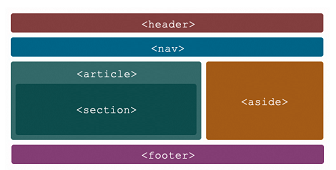
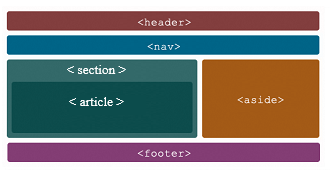
Cambio a CCS!
Cambio a CCS!

Changed region(s): [[0.0, 0.0588, 0.9821, 0.9706], [0.2083, 0.5588, 0.4167, 0.6765], [0.7143, 0.5588, 0.8631, 0.6176]]

diff --git a/ContHTML5.html b/ContHTML5.html
@@ -8,8 +8,8 @@
 	<meta content="NAV, Article, Aside, Header y Footer" name="keywords"/>
 	
 	<title>OVI HTML5</title>
-	<link rel="stylesheet" href="css/normalize.css">
-	<link rel="stylesheet" href="css/estilo.css">
+	<link rel="stylesheet" href="css1/normalize.css">
+	<link rel="stylesheet" href="css1/estilo.css">
 </head>
 
 <body>
@@ -34,12 +34,28 @@
 		<P>
         <CENTER><img src="img/Contenido HTML.png"></CENTER>
         </P>
+
 <P>
+<big>Header</big>
+</P>
+<P>
+Un grupo de navegación o contenido introductorio. Un elemento header normalmente contiene una sección de encabezado (un elemento h1-h6 o un elemento hgroup), pero puede contener otro tipo de elementos, como una tabla de contenidos, un formulario de búsqueda o cualquier logo importante.
+</P>
+&nbsp;
+		<P>
 <big>Nav</big>
 </P>
 <P>
 El elemento "nav" representa una sección de una página que enlaza con otras páginas o partes de la misma página: una sección con enlaces de navegación.
 ha sido diseñado para identificar la navegación de un sitio web. La navegación se define como un conjunto de enlaces que hacen referencia a las secciones de una página o un sitio, pero no todos los enlaces son candidatos de pertenecer a un elemento "nav": una lista de enlaces a patrocinadores o los resultados de una búsqueda, no forman parte de la navegación principal, sino que corresponden con el contenido de la página.
+</P>
+</P>
+&nbsp;
+<p>
+<big>Section</big>
+</P>
+<P>
+Se utiliza para representar una sección "general" dentro de un documento o aplicación, como un capítulo de un libro
 </P>
 </P>
 &nbsp;
@@ -57,13 +73,7 @@ Este elemento representa un contenido completo, auto-contenido en un documento, 
 Una sección de una página que consiste en contenido tangencialmente relacionado con el contenido alrededor del elemento, y puede considerarse separado de este contenido. Estas secciones son normalmente representadas como elementos laterales en medios impresos. Este elemento puede utilizarse contener citas, anuncios, grupos de elementos de navegación y cualquier otro contenido separado del contenido principal de la pagina.
 </P>
 &nbsp;
-<P>
-<big>Header</big>
-</P>
-<P>
-Un grupo de navegación o contenido introductorio. Un elemento header normalmente contiene una sección de encabezado (un elemento h1-h6 o un elemento hgroup), pero puede contener otro tipo de elementos, como una tabla de contenidos, un formulario de búsqueda o cualquier logo importante.
-</P>
-&nbsp;
+
 <P>
 <big>Footer</big>
 </P>
